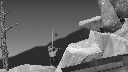
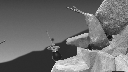
Updated maps

diff --git a/makeMap.py b/makeMap.py
@@ -14,10 +14,6 @@ directKeys = Keys()
 
 GameRegion = set.get_game_region("Getting Over It")
 scrshotList = []
-block_h = set.compare_block_size[1]
-block_w = set.compare_block_size[2]
-
-print(set.block_diff_good_thrshld, set.block_score_good_thrshld)
 
 #count_down
 for i in range(10) :
@@ -28,7 +24,7 @@ saved_scrshot_count = 0
 array_scrshot = np.zeros(set.shot_shape)
 
 while(True) :
-    sleep(0.2)
+    sleep(0.1)
     pre_array_scrshot = array_scrshot
     # get screen shot
     if set.shot_c == 1 :
@@ -41,61 +37,21 @@ while(True) :
     else :
         raise Exception("shot_c isn't right.")
     
-    if np.sum(np.absolute(pre_array_scrshot - array_scrshot)) < set.no_move_thrshld : continue
-    
-    if len(scrshotList) == 0 :
-        scrshotList.append(array_scrshot)
-        print("map", saved_scrshot_count, "added")
-        scrshot.save("map/" + str(saved_scrshot_count) + ".png")
-        saved_scrshot_count += 1
-    else :
-        '''
-        min_block_diff = 2147483648
-        # blocks image diff
-        # this algorithm is bigO(n^3), very slow. Only use if CPU is good
-        for this_scrshot in scrshotList :
-            # make compare_blocks
-            # hack from stackoverflow :
-            compare_blocks = array_scrshot.reshape(set.block_side_num, block_h, -1, block_w, set.shot_c).swapaxes(1,2).reshape(-1, block_h, block_w, set.shot_c)
+    if np.sum(np.absolute(pre_array_scrshot - array_scrshot)) < set.no_move_thrshld :    
+        if len(scrshotList) == 0 :
+            scrshotList.append(array_scrshot)
+            print("map", saved_scrshot_count, "added")
+            scrshot.save("map/" + str(saved_scrshot_count) + ".png")
+            saved_scrshot_count += 1
+        else :
+            min_diff = 2147483648
+            for this_scrshot in scrshotList :
+                d = np.sum(np.absolute(this_scrshot - array_scrshot))
+                if d < min_diff : min_diff = d
             
-            compare_result_array = np.full((set.block_num), 2147483648)
-            for n in range(set.block_num) :
-                i = 0
-                j = 0
-                while(i+block_h < set.shot_h) :
-                    while(j+block_w < set.shot_w) :
-                        compare_result_array[n] = min(
-                            compare_result_array[n],
-                            np.sum(np.absolute(
-                                this_scrshot[i:i+block_h, j:j+block_w] - compare_blocks[n]
-                            ))
-                        )
-                        j += set.compare_stride
-                    i += set.compare_stride
-            #print(compare_result_array)
-            # compare_result :
-            # 0 --> there is same (diff smaller then thresold)
-            # 1 --> there is no same (diff larger)
-            block_diff = np.sum((compare_result_array > set.block_diff_good_thrshld).astype(np.int))
-            if block_diff < min_block_diff : min_block_diff = block_diff
-        # end for this_scrshot
-        print(min_block_diff)
-        if min_block_diff != 2147483648 and min_block_diff > set.block_score_good_thrshld - 1 :
-            scrshotList.append(array_scrshot)
-            print("map", saved_scrshot_count, "added")
-            scrshot.save("map/" + str(saved_scrshot_count) + ".png")
-            saved_scrshot_count += 1
-        # end if block diff
-        '''
-    
-        min_diff = 2147483648
-        for this_scrshot in scrshotList :
-            d = np.sum(np.absolute(this_scrshot - array_scrshot))
-            if d < min_diff : min_diff = d
-        
-        if min_diff > set.good_thrshld:
-            scrshotList.append(array_scrshot)
-            print("map", saved_scrshot_count, "added")
-            scrshot.save("map/" + str(saved_scrshot_count) + ".png")
-            saved_scrshot_count += 1
+            if min_diff > set.good_thrshld:
+                scrshotList.append(array_scrshot)
+                print("map", saved_scrshot_count, "added")
+                scrshot.save("map/" + str(saved_scrshot_count) + ".png")
+                saved_scrshot_count += 1
     

diff --git a/setting.py b/setting.py
@@ -39,7 +39,7 @@ class TrainingSetting() :
 
     # REWARD SETTING
     gamma = 0.36787944117 # 1 / exp(1)
-    good_thrshld = shot_h * shot_w * shot_c * (0.03 + 2 * noise_range) # 0.09
+    good_thrshld = shot_h * shot_w * shot_c * (0.02 + 2 * noise_range) # 0.08
     no_move_thrshld = shot_h * shot_w * shot_c * 0.03
     
     stuck_countdown = 75
